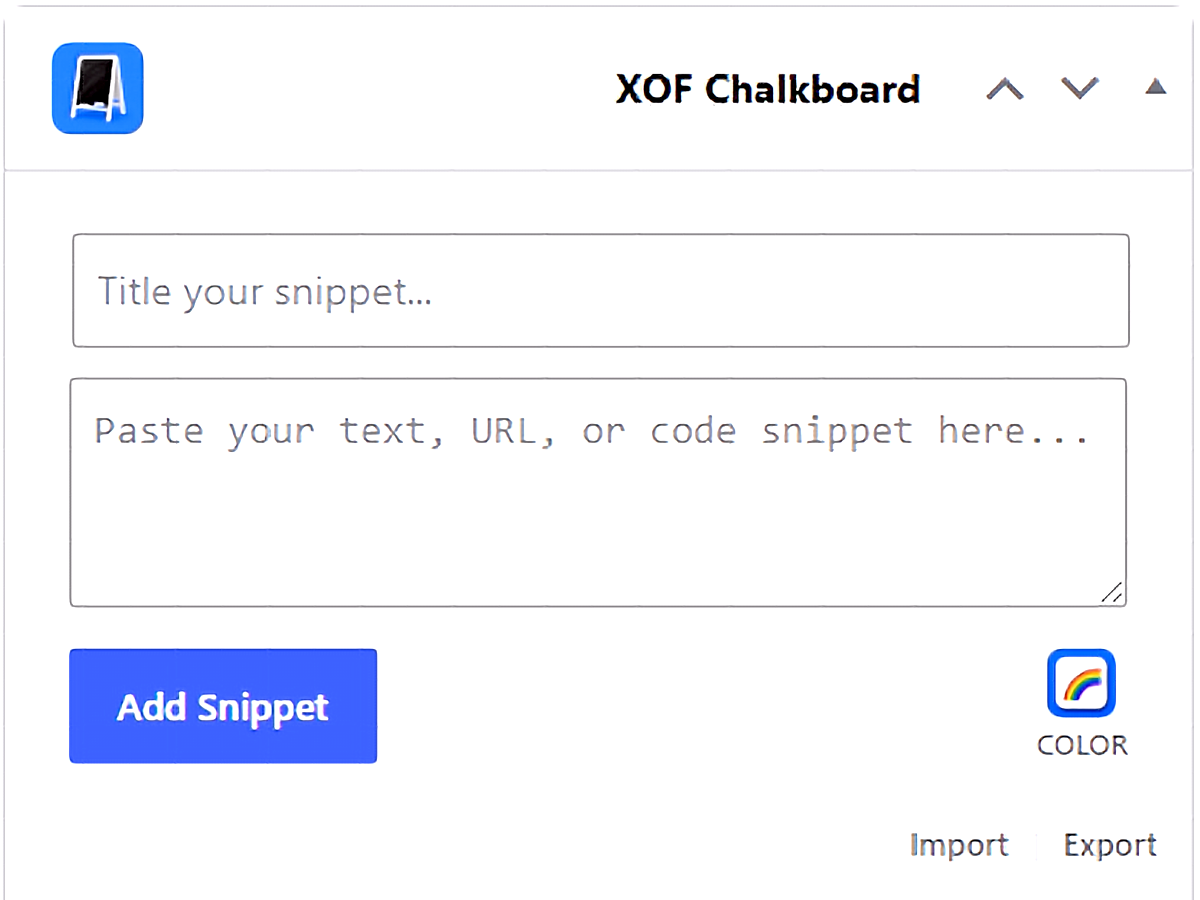
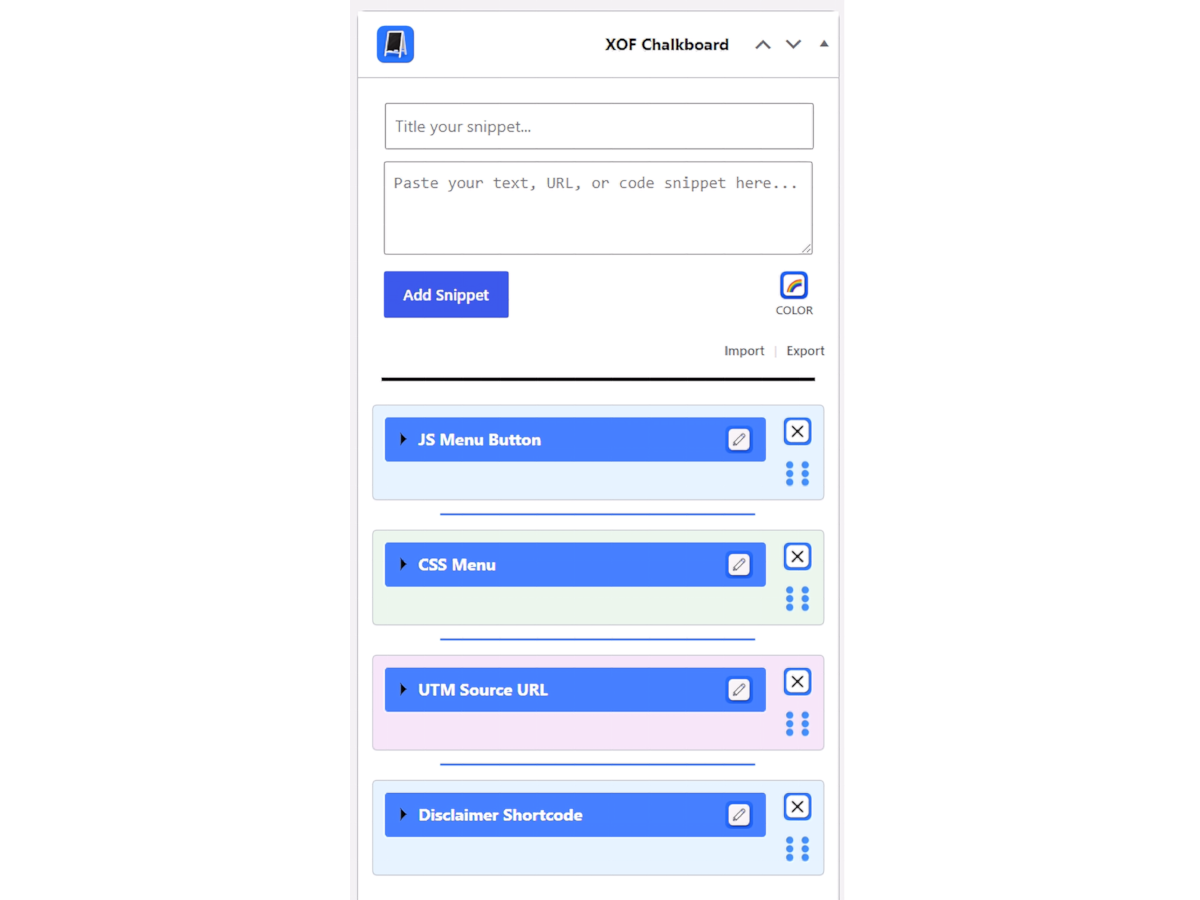
Corrected screenshots
Adjusted the screenshot filenames and readme.txt and README.md so they match

diff --git a/README.md b/README.md
@@ -38,23 +38,23 @@ That simple notice widget evolved into this modular plugin. Built first to solve
 
 ## Screenshots
 
-![Snippet Creation and Color Picker](assets/screenshot-1.png)
+![Full Dashboard View](assets/screenshot-1.png)
+*A full overview of the dashboard widget in action, featuring the creation section, global import/export tools, and a stacked library of snippets.*
+
+![Snippet Creation and Color Picker](assets/screenshot-2.png)
 *The main XOF Chalkboard dashboard widget UI, highlighting the snippet creation tools and color picker.*
 
-![JavaScript Snippet](assets/screenshot-2.png)
+![JavaScript Snippet](assets/screenshot-3.png)
 *An expanded JavaScript snippet demonstrating the action icons, drag-and-drop handle, and resizable workspace, with a collapsed CSS snippet stacked below.*
 
-![URL Snippet](assets/screenshot-3.png)
+![URL Snippet](assets/screenshot-4.png)
 *Saving a URL for quick access. The expanded view reveals the snippet title, action controls, and adjustable text area.*
 
-![Shortcode Snippet](assets/screenshot-4.png)
+![Shortcode Snippet](assets/screenshot-5.png)
 *Storing a frequently used WordPress shortcode. You can easily copy it to your clipboard directly from this expanded view.*
 
-![Collapsed View](assets/screenshot-5.png)
+![Collapsed View](assets/screenshot-6.png)
 *A clean, collapsed view of multiple saved snippets, showcasing the color-coding and compact accordion UI.*
-
-![Full Dashboard View](assets/screenshot-6.png)
-*A full overview of the dashboard widget in action, featuring the creation section, global import/export tools, and a stacked library of snippets.*
 
 ## Installation
 
